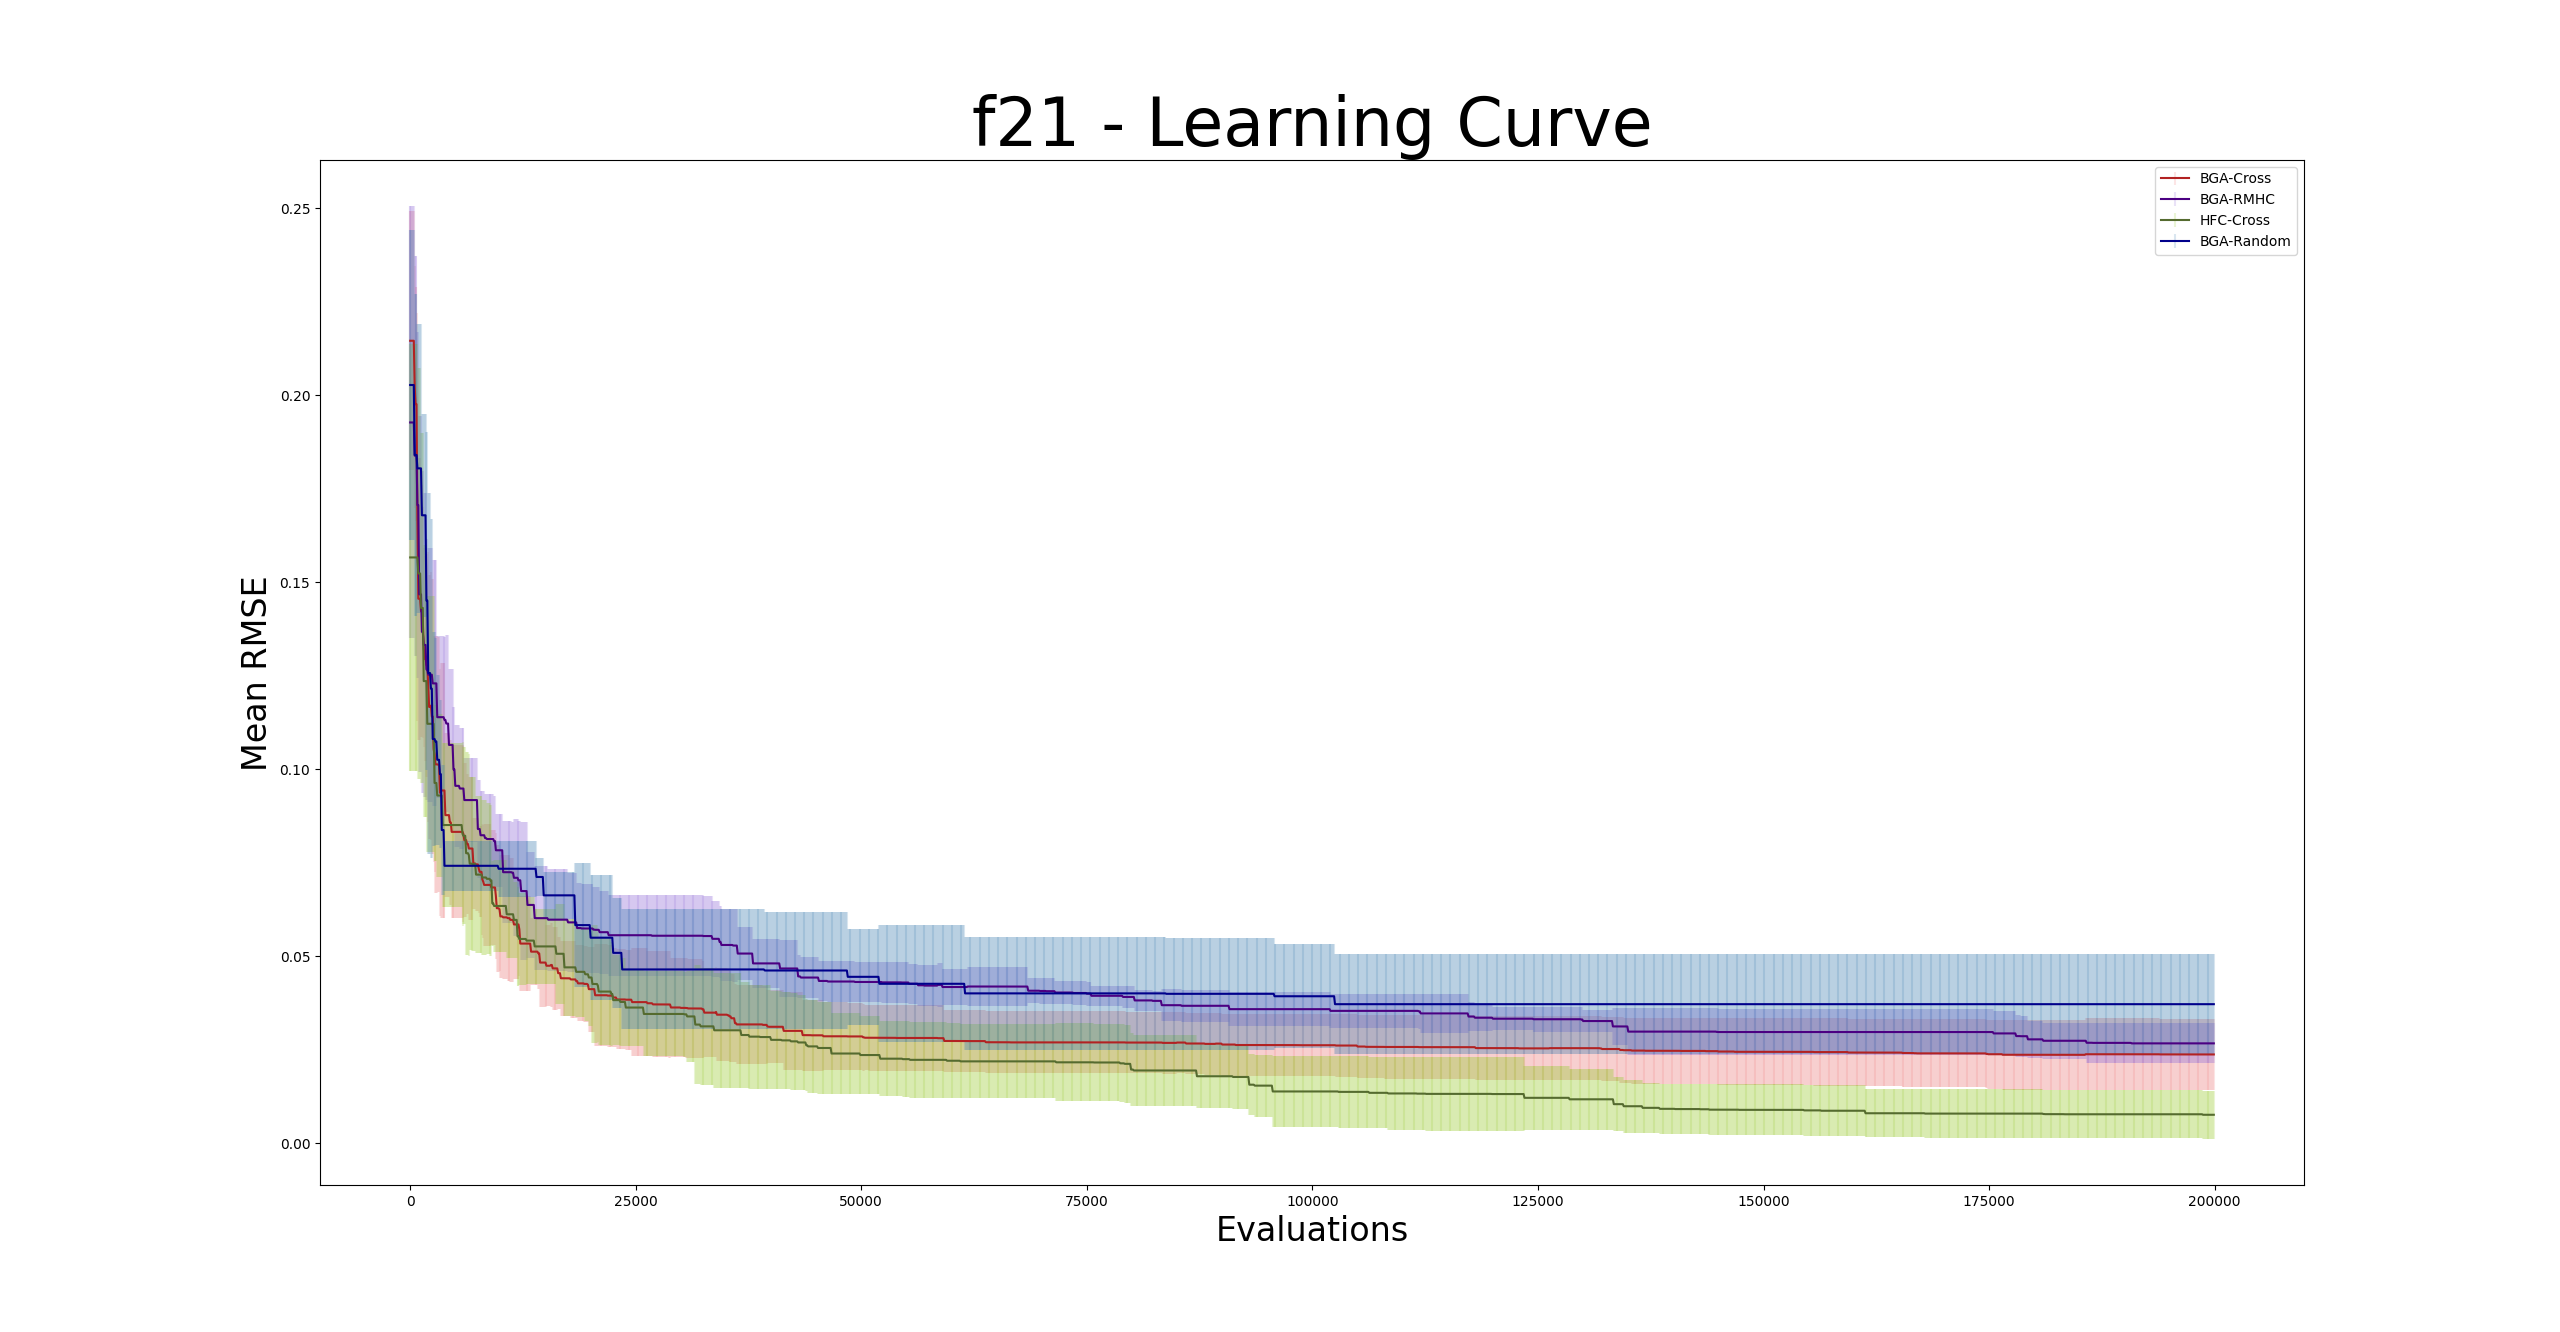
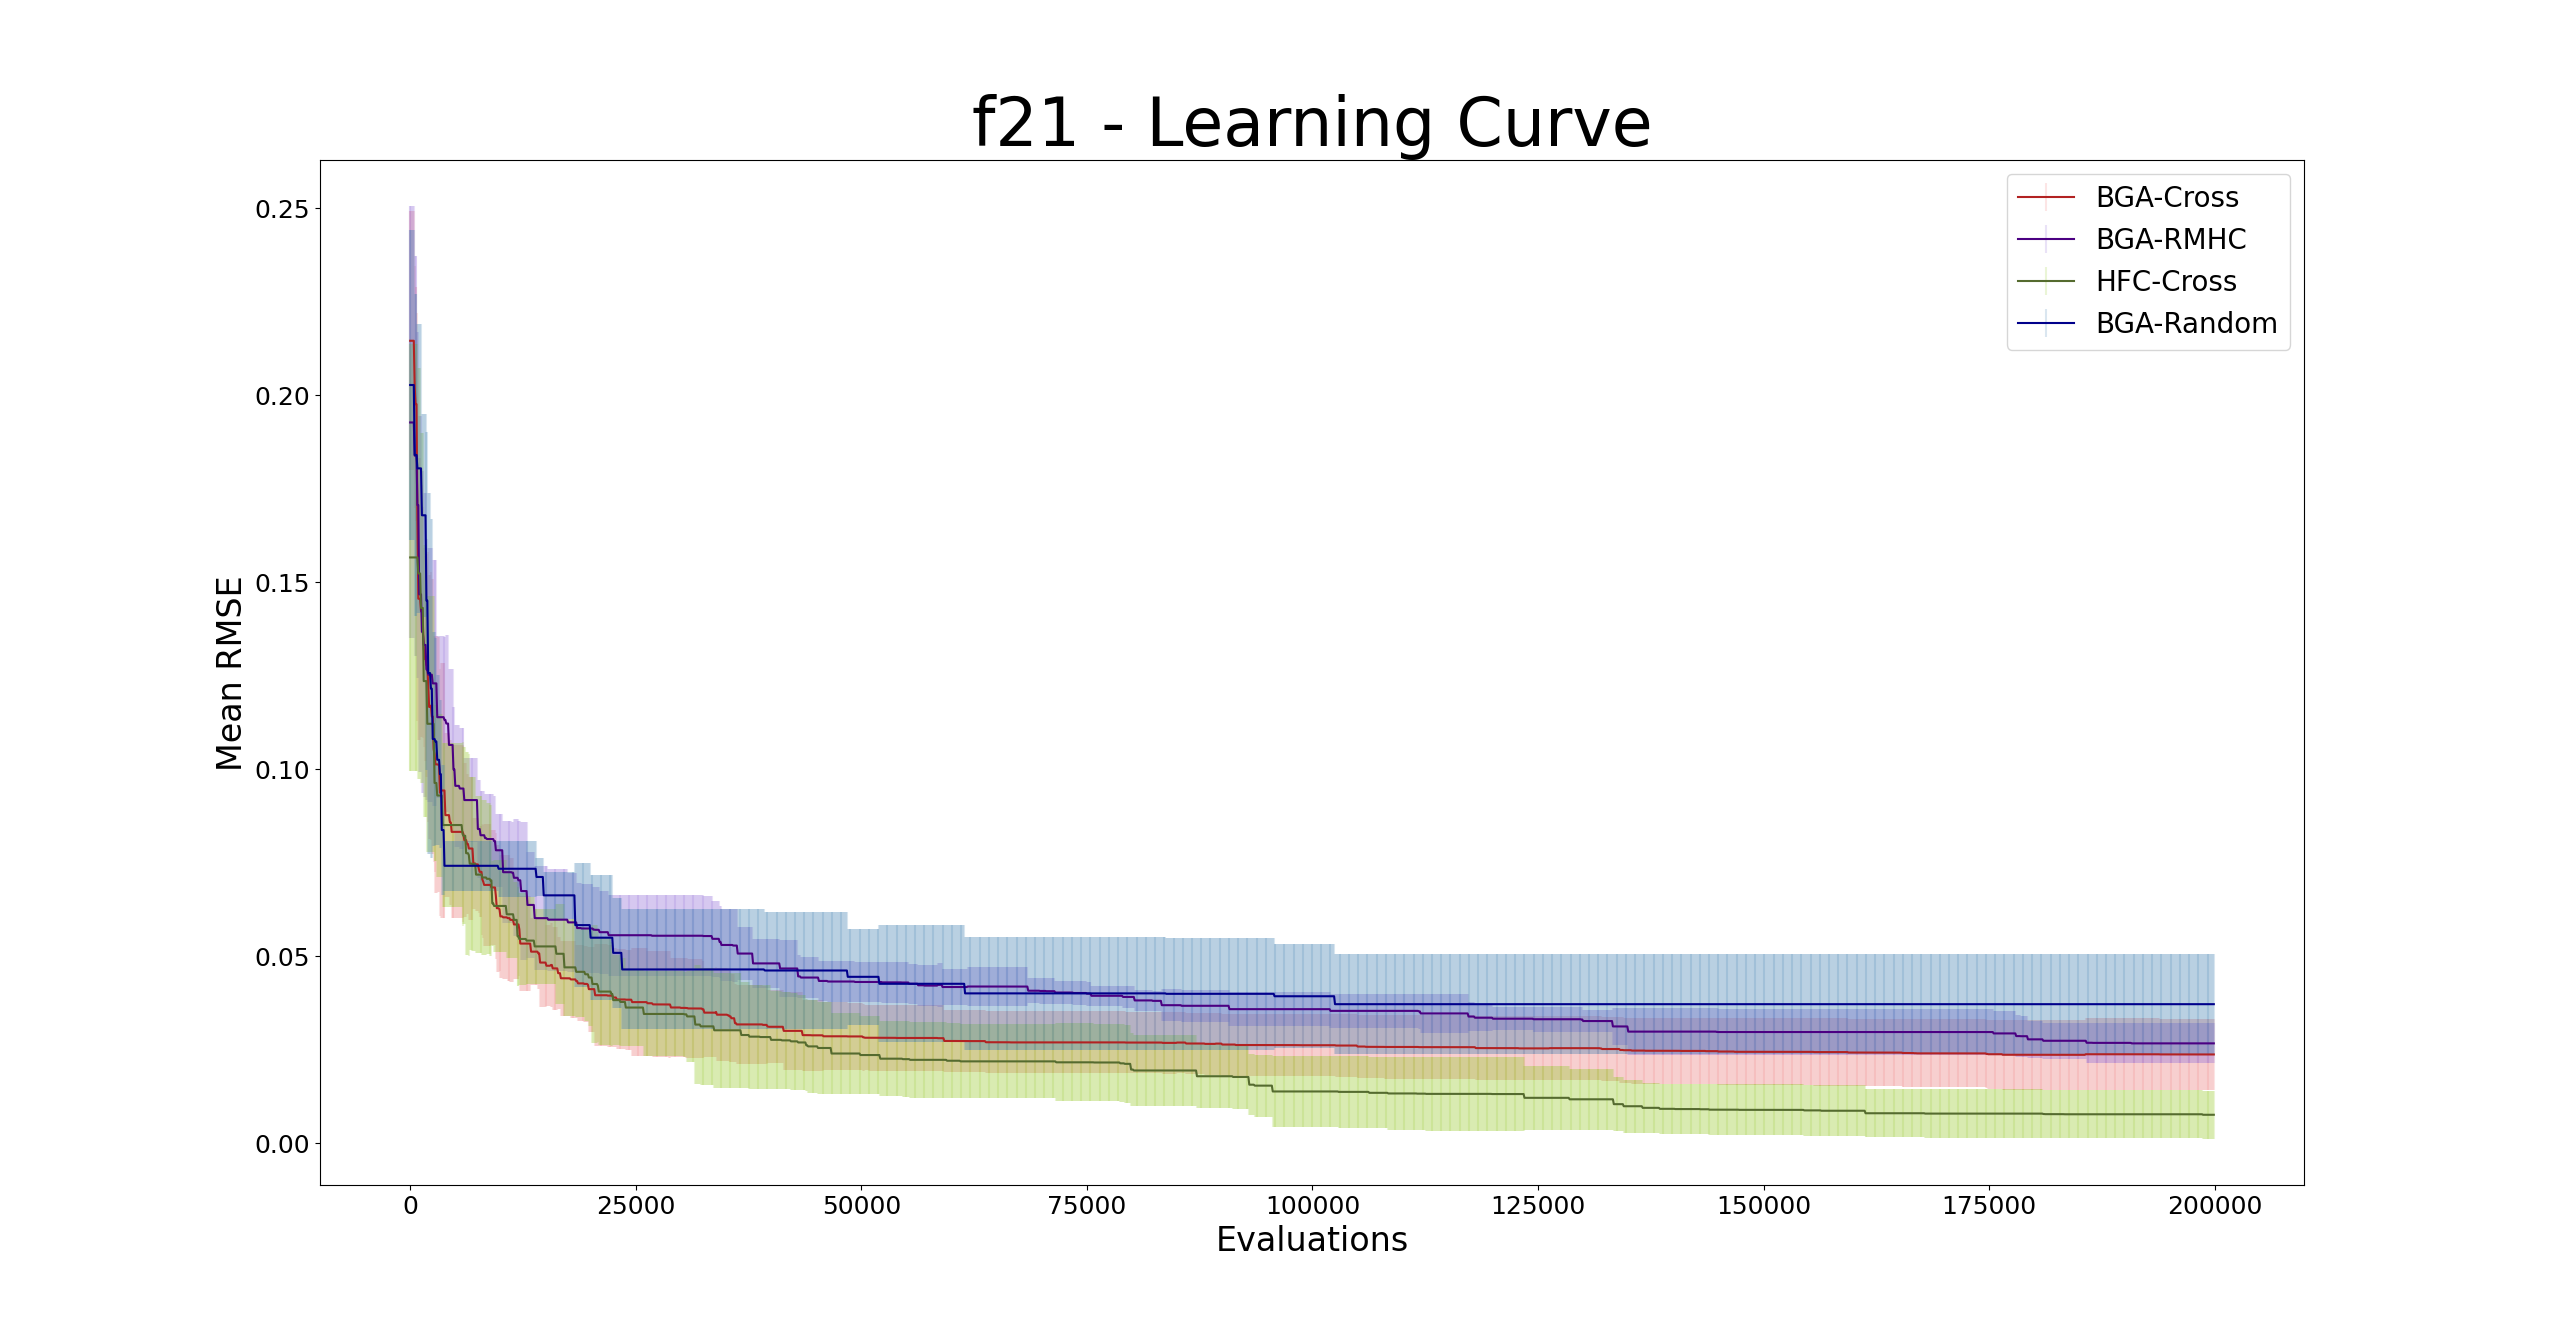
fix: makes learning curve image more legible

diff --git a/scripts/visualizations/data_vis/plots.py b/scripts/visualizations/data_vis/plots.py
@@ -63,7 +63,9 @@ def plot_learning_curve(cohorts: List[primitives.Cohort]):
                     ecolor=colors3[i], color=colors2[i][0])
 
     ax.set_title("{} - Learning Curve".format(cohorts[0].data_set), fontsize=48)
-    ax.legend()
+    ax.legend(fontsize=20)
     ax.set_xlabel("Evaluations", fontsize=24)
     ax.set_ylabel("Mean RMSE", fontsize=24)
+    plt.yticks(fontsize=18)
+    plt.xticks(fontsize=18)
     plt.show()

diff --git a/README.md b/README.md
@@ -1,6 +1,6 @@
 # SymReg
 
-A **Sym**bolic **Reg**ression tool built in C++ that employs genetic algorithms on a user-provided dataset.
+A Symbolic Regression tool built in C++ that employs genetic algorithms on a user-provided dataset.
 
 ## Table of Contents
 
